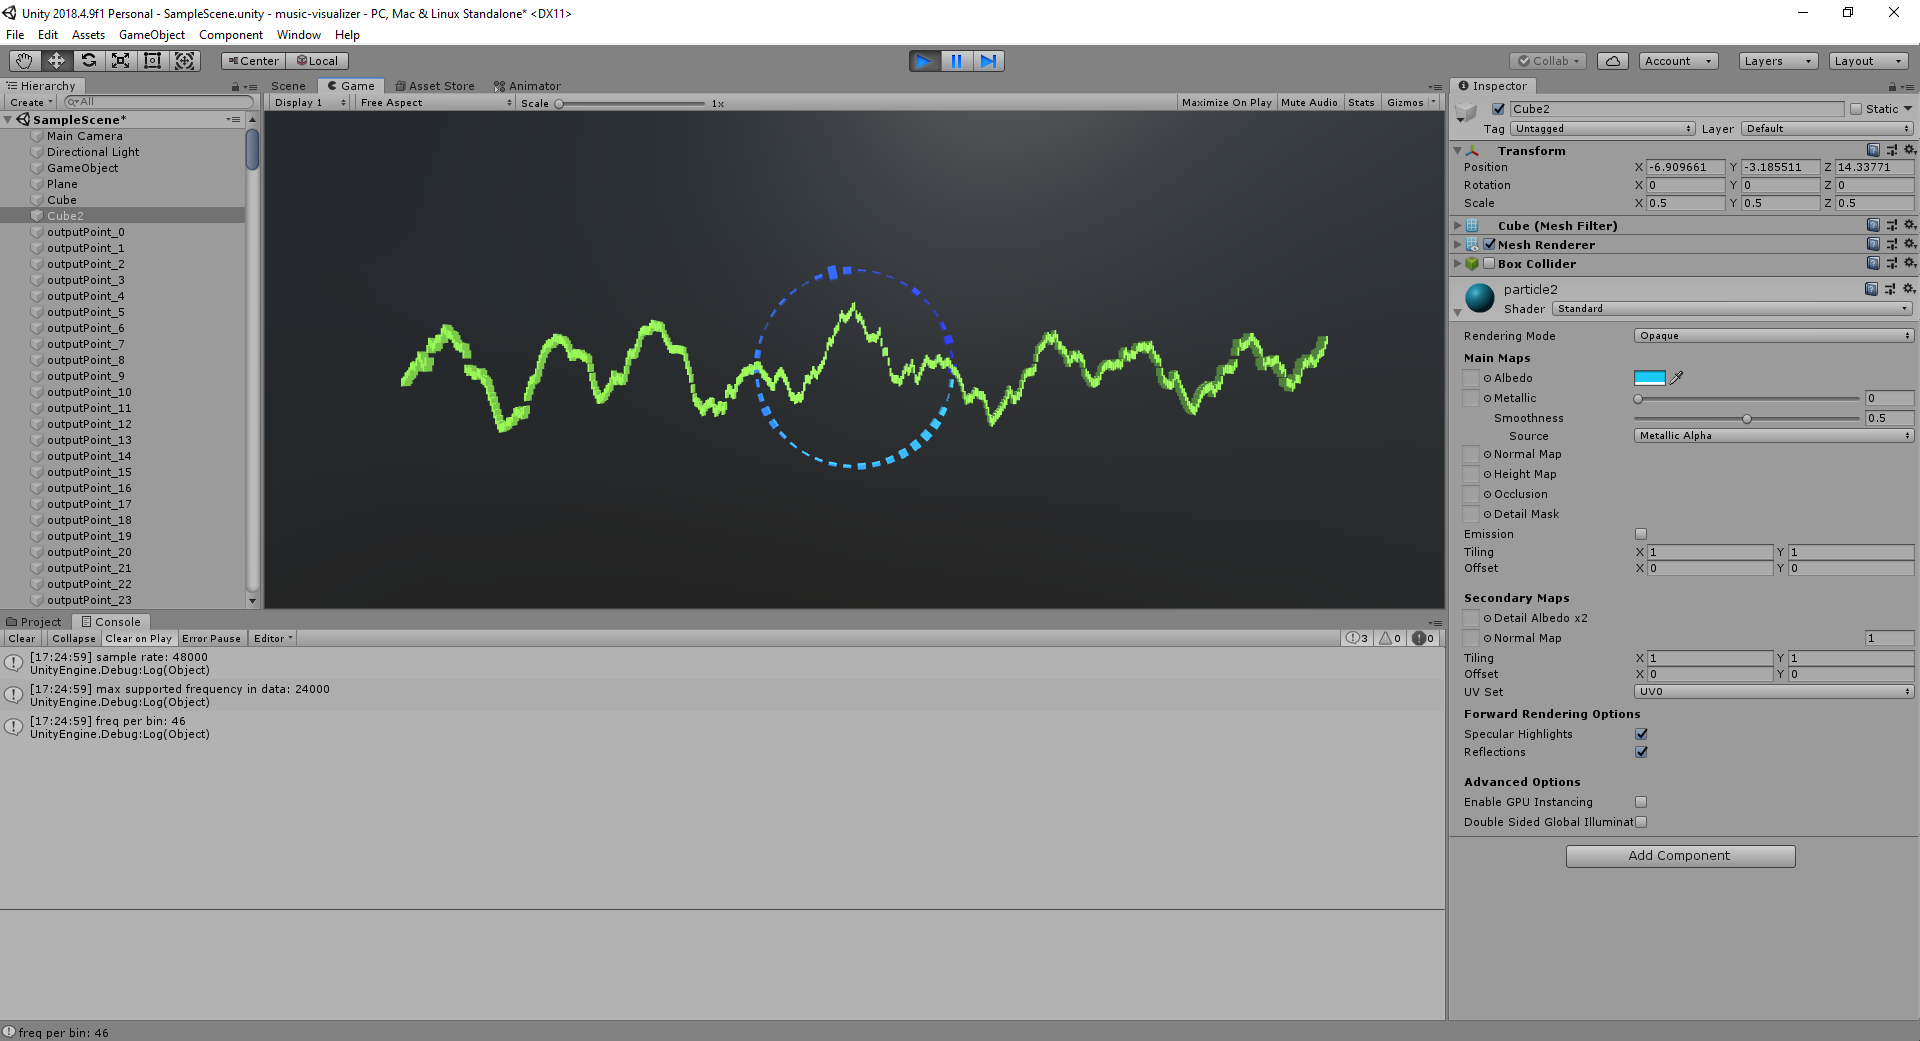
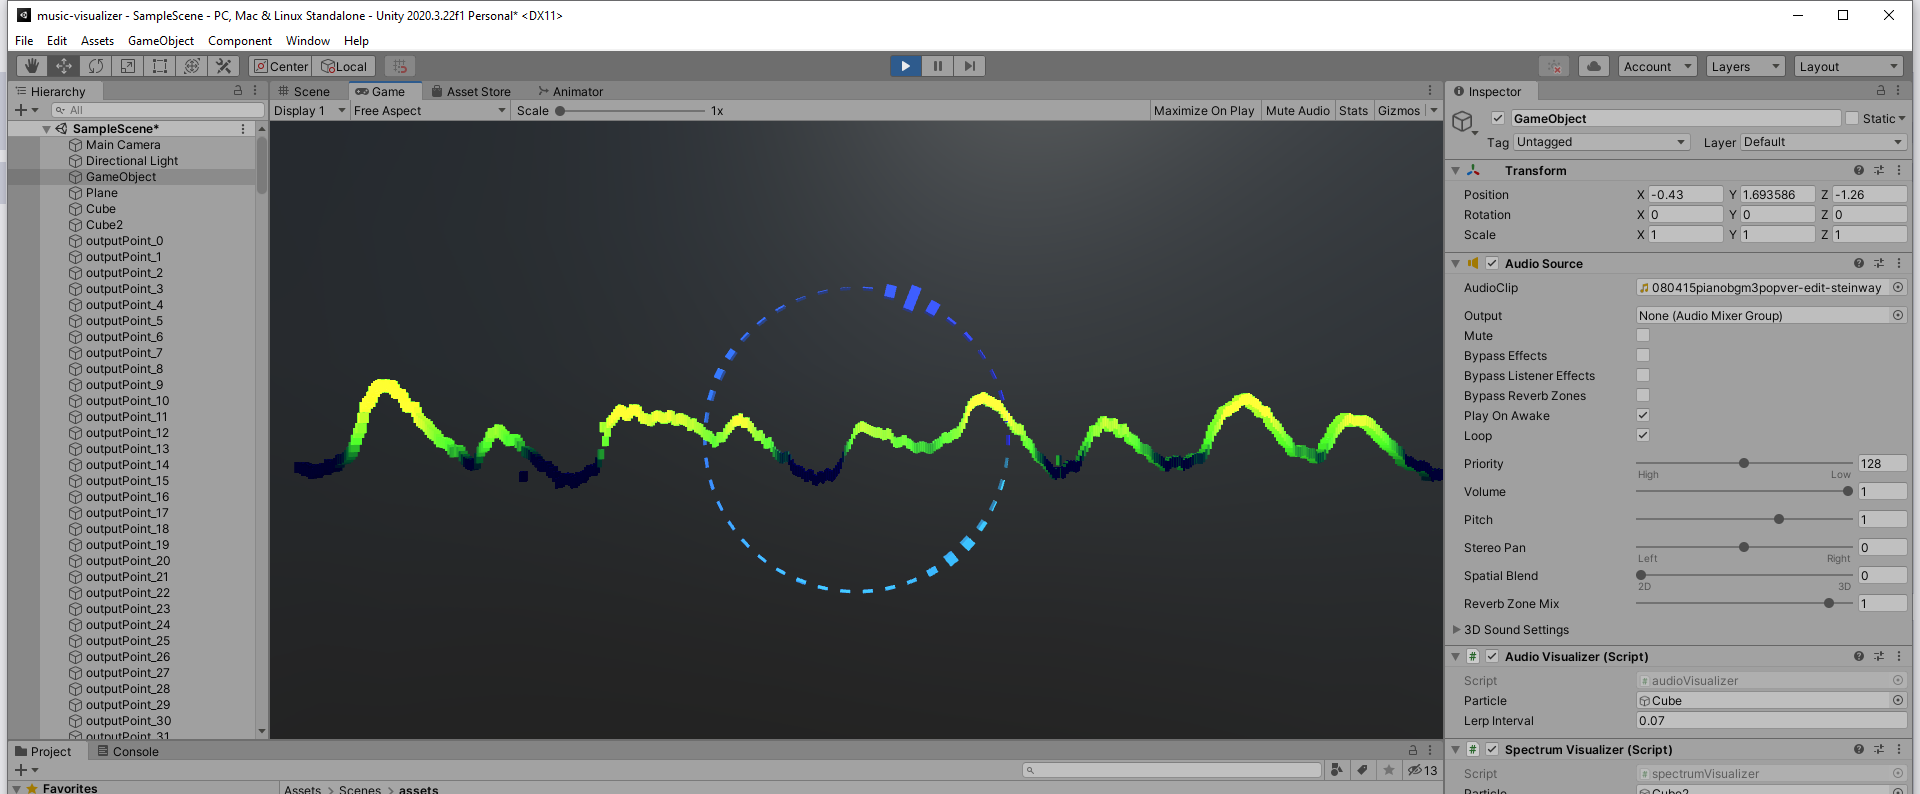
more stuff

diff --git a/Assets/Scenes/scripts/audioVisualizer.cs b/Assets/Scenes/scripts/audioVisualizer.cs
@@ -6,15 +6,17 @@ using UnityEngine;
 public class audioVisualizer : MonoBehaviour
 {
     public GameObject particle;
-    public AudioSource audioSrc;
+    public float lerpInterval = 0.05f;
+    //public AudioSource audioSrc;
 
     private const int sampleOutputDataSize = 512;    // power of 2
     private const float xCoordOutputData = -55.0f;   // x coord of particles
-    private const float pointSpacing = 0.22f;        //Screen.width / spectrumDataSize; TODO: have it scale with screen size/camera?
+    private const float pointSpacing = 0.22f;        // Screen.width / spectrumDataSize; TODO: have it scale with screen size/camera?
     private const float zCoord = 3.0f;               // z coord of particles
 
     private float[] outputData;
     private List<GameObject> pointObjectsOutput;
+    private List<bool> pointObjectsFlag;
 
     private float calculateRMS(float[] samples)
     {
@@ -26,15 +28,7 @@ public class audioVisualizer : MonoBehaviour
         return Mathf.Sqrt(sum / samples.Length);
     }
 
-    private void prefill(float[] arr, float val)
-    {
-        for (int i = 0; i < arr.Length; i++)
-        {
-            arr[i] = val;
-        }
-    }
-
-    private void setupOutputDataPoints(List<GameObject> points)
+    private void setupOutputDataPoints(List<GameObject> points, List<bool> pointFlags)
     {
         float currPos = xCoordOutputData;
         for (int i = 0; i < sampleOutputDataSize; i++)
@@ -43,6 +37,7 @@ public class audioVisualizer : MonoBehaviour
             newPoint.name = ("outputPoint_" + i);
             newPoint.transform.localScale = new Vector3(0.2f, 1, 1);
             points.Add(newPoint);
+            pointFlags.Add(false);
 
             currPos += pointSpacing;
         }
@@ -71,21 +66,96 @@ public class audioVisualizer : MonoBehaviour
         }
     }
 
-    // taking the output directly from getOutputData (which I think is just amplitude data?) and scaling it a bit to show a waveform based on volume
-    private void displayWaveform(float[] samples, List<GameObject> points, float xStart, float spacing, string style)
+    private IEnumerator scaleToTarget(GameObject obj, Vector3 target, int objIndex)
     {
-        for(int i = 0; i < sampleOutputDataSize; i++)
+        Transform trans = obj.transform;
+        Vector3 initialScale = trans.localScale;
+        Vector3 currScale = trans.localScale;
+
+        // TODO: make this a public variable?
+        Vector3 baseColor = new Vector3(142, 248, 50);
+        Vector3 maxColor = new Vector3(178, 252, 114);
+
+        float timer = 0f;
+
+        while (currScale != target)
+        {
+            currScale = Vector3.Lerp(initialScale, target, timer / lerpInterval);
+
+            Vector3 newColor = Vector3.Lerp(baseColor, maxColor, timer / lerpInterval);
+            obj.GetComponent<Renderer>().material.color = new Color(newColor.x, newColor.y, newColor.z);
+
+            trans.localScale = currScale;
+            timer += Time.deltaTime;
+
+            yield return null;
+        }
+        pointObjectsFlag[objIndex] = false;
+    }
+
+    private IEnumerator moveToTarget(GameObject obj, Vector3 target, int objIndex)
+    {
+        Transform trans = obj.transform;
+        Vector3 initialPos = trans.position;
+        Vector3 currPos = trans.position;
+
+        // TODO: make the base color of the material a public var? or the material itself?
+        float factor = target.y * 0.6f;
+        Color maxColor = new Color((factor*117f) / 255f, (250f*factor) / 255f, (2f) / 255f); // colors need to be between 0-1 for each channel! :/
+
+        float timer = 0f;
+
+        while (currPos != target)
+        {
+            currPos = Vector3.Lerp(initialPos, target, timer / lerpInterval);
+
+            Color currColor = obj.GetComponent<Renderer>().material.color;
+            obj.GetComponent<Renderer>().material.color = Color.Lerp(currColor, maxColor, timer / lerpInterval);
+
+            trans.position = currPos;
+            timer += Time.deltaTime;
+
+            yield return null;
+        }
+        pointObjectsFlag[objIndex] = false;
+    }
+
+    // taking the output directly from getOutputData (which I think is just amplitude data?) and scaling it a bit to show a waveform based on volume
+    private void displayWaveform(float[] samples, List<GameObject> points, List<bool> pointFlags, float xStart, float spacing, string style)
+    {
+        Color baseColor = new Color(142f / 255f, 248f / 255f, 50f / 255f);
+
+        for (int i = 0; i < sampleOutputDataSize; i++)
         {
             float sampleVal = samples[i] * 20f;
 
             if (style == "move")
             {
-                points[i].transform.position = new Vector3(xStart, sampleVal, zCoord);
+                if (pointObjectsFlag[i] == false)
+                {
+                    pointObjectsFlag[i] = true;
+                    StartCoroutine(
+                        moveToTarget(points[i], new Vector3(xStart, sampleVal, zCoord), i)
+                    );
+                }
+
+                points[i].transform.position = Vector3.Lerp(points[i].transform.position, new Vector3(xStart, 0, zCoord), 50 * Time.deltaTime);
+
+                Color currColor = points[i].GetComponent<Renderer>().material.color;
+                points[i].GetComponent<Renderer>().material.color = Color.Lerp(currColor, baseColor, 10 * Time.deltaTime);
+
                 xStart += spacing;
             }
             else if(style == "stretch")
             {
-                points[i].transform.localScale = new Vector3(1, sampleVal, 1);
+                if (pointObjectsFlag[i] == false)
+                {
+                    pointObjectsFlag[i] = true;
+                    StartCoroutine(
+                        scaleToTarget(points[i], new Vector3(1, sampleVal, zCoord), i)
+                    );
+                }
+                points[i].transform.localScale = Vector3.Lerp(points[i].transform.localScale, new Vector3(1, 0, zCoord), 50 * Time.deltaTime);
             }
         }
     }
@@ -94,15 +164,16 @@ public class audioVisualizer : MonoBehaviour
     void Start()
     {
         pointObjectsOutput = new List<GameObject>();
+        pointObjectsFlag = new List<bool>();
         outputData = new float[sampleOutputDataSize];
-        setupOutputDataPoints(pointObjectsOutput);
+        setupOutputDataPoints(pointObjectsOutput, pointObjectsFlag);
     }
 	
     // Update is called once per frame
     void Update()
     {
         AudioListener.GetOutputData(outputData, 0);
-        //displayWaveform(outputData, pointObjectsOutput, xCoord, pointSpacing, "stretch");
-        displayWaveform(outputData, pointObjectsOutput, xCoordOutputData, pointSpacing, "move");
+        //displayWaveform(outputData, pointObjectsOutput, pointObjectsFlag, xCoordOutputData, pointSpacing, "stretch");
+        displayWaveform(outputData, pointObjectsOutput, pointObjectsFlag, xCoordOutputData, pointSpacing, "move");
     }
 }

diff --git a/Assets/Scenes/scripts/spectrumVisualizer.cs b/Assets/Scenes/scripts/spectrumVisualizer.cs
@@ -6,10 +6,10 @@ using UnityEngine;
 public class spectrumVisualizer : MonoBehaviour
 {
     public GameObject particle; // the gameobject to use to represent a spectrum data point
+    public float lerpInterval = 0.05f; // time interval in sec for a data point object to scale towards a value
     //public AudioSource audioSrc;
 
     private const int sampleDataSize = 512;  // power of 2
-    private const float interval = 0.05f; // time interval in sec for a data point object to scale towards a value
     private const int desiredFreqMin = 50;
     private const int desiredFreqMax = 2000;
 
@@ -94,17 +94,18 @@ public class spectrumVisualizer : MonoBehaviour
     }
 
     // super helpful: https://www.youtube.com/watch?v=PzVbaaxgPco => Unity3D How To: Audio Visualizer With Spectrum Data
-    private IEnumerator scaleToTarget(Transform obj, Vector3 target, int objIndex)
+    private IEnumerator scaleToTarget(GameObject obj, Vector3 target, int objIndex)
     {
-        Vector3 initialScale = obj.localScale;
-        Vector3 currScale = obj.localScale;
-        float _timer = 0f;
+        Transform trans = obj.transform;
+        Vector3 initialScale = trans.localScale;
+        Vector3 currScale = trans.localScale;
+        float timer = 0f;
 
         while (currScale != target)
         {
-            currScale = Vector3.Lerp(initialScale, target, _timer / interval);
-            obj.localScale = currScale;
-            _timer += Time.deltaTime;
+            currScale = Vector3.Lerp(initialScale, target, timer / lerpInterval);
+            trans.localScale = currScale;
+            timer += Time.deltaTime;
 
             yield return null;
         }
@@ -124,7 +125,7 @@ public class spectrumVisualizer : MonoBehaviour
         for (int i = targetIndexMin; i < targetIndexMax; i++)
         {
             Transform currTransform = pointObjects[particleIndex].transform;
-            float binValDelta = 80*(spectrumData[i] - prevSpectrumData[i]);
+            float binValDelta = 90*(spectrumData[i] - prevSpectrumData[i]);
             float baseline = 0.1f;
 
             // save the current rotation
@@ -141,7 +142,7 @@ public class spectrumVisualizer : MonoBehaviour
                 {
                     pointObjectsFlag[particleIndex] = true;
                     StartCoroutine(
-                        scaleToTarget(currTransform, new Vector3(binValDelta, 1, 1), particleIndex)
+                        scaleToTarget(pointObjects[particleIndex], new Vector3(binValDelta, 1, 1), particleIndex)
                     );
                 }
 
@@ -155,7 +156,7 @@ public class spectrumVisualizer : MonoBehaviour
                 {
                     pointObjectsFlag[particleIndex] = true;
                     StartCoroutine(
-                        scaleToTarget(currTransform, new Vector3(binValDelta*0.5f, binValDelta, 1), particleIndex)
+                        scaleToTarget(pointObjects[particleIndex], new Vector3(binValDelta*0.5f, binValDelta, 1), particleIndex)
                     );
                 }
 
